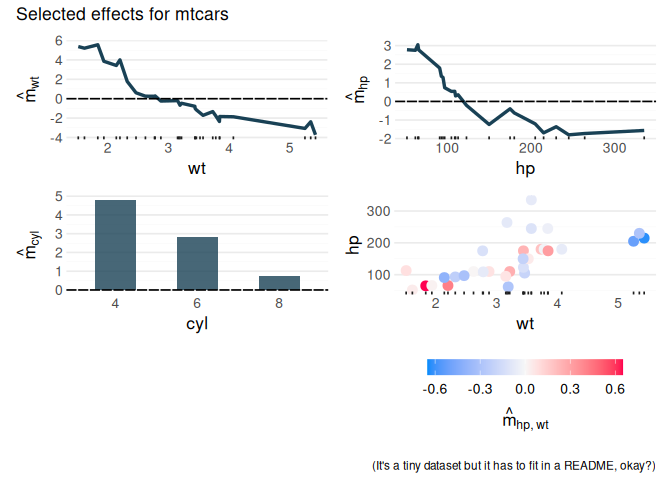
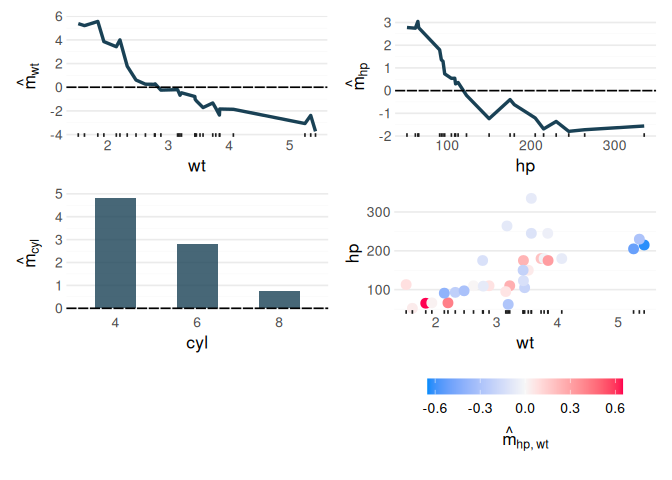
expand README

diff --git a/README.md b/README.md
@@ -12,28 +12,46 @@ coverage](https://codecov.io/gh/PlantedML/randomPlantedForest/graph/badge.svg)](
 badge](https://plantedml.r-universe.dev/badges/randomPlantedForest)](https://plantedml.r-universe.dev/randomPlantedForest)
 <!-- badges: end -->
 
-`randomPlantedForest` implements “Random Planted Forest”, a directly
-interpretable tree ensemble [(arxiv)](https://arxiv.org/abs/2012.14563).
+`randomPlantedForest` implements Random Planted Forest ([Hiabu, Mammen &
+Meyer](https://arxiv.org/abs/2012.14563)), a tree ensemble whose
+predictions you can read off directly, without post-hoc explanation
+methods.
+
+Like a random forest, it averages many tree-based models grown on
+bootstrap samples. Unlike a random forest, each of these models is a sum
+of trees that each split on a fixed set of predictors, and
+`max_interaction` bounds how many predictors that can be. With
+`max_interaction = 1` the forest is an additive model; with `2` it adds
+pairwise interactions, and so on. As a result, the fitted model
+decomposes exactly into an intercept, main effects and interactions up
+to that order:
+
+$$\hat m(x) = \hat m_0 + \sum_k \hat m_k(x_k) + \sum_{k < l} \hat m_{kl}(x_k, x_l) + \dots$$
+
+Each component can be inspected and plotted on its own, and together
+they sum to the prediction.
 
 ## Installation
 
-You can install the development version of `randomPlantedForest` from
-[GitHub](https://github.com/) with
-
-``` r
-# install.packages("remotes")
-remotes::install_github("PlantedML/randomPlantedForest")
-```
-
-or from [r-universe](https://plantedml.r-universe.dev/packages) with
+Install the development version from
+[r-universe](https://plantedml.r-universe.dev/packages) with
 
 ``` r
 install.packages("randomPlantedForest", repos = "https://plantedml.r-universe.dev")
 ```
 
+or from [GitHub](https://github.com/PlantedML/randomPlantedForest) with
+
+``` r
+# install.packages("pak")
+pak::pak("PlantedML/randomPlantedForest")
+```
+
 ## Example
 
-Model fitting uses a familiar interface:
+`rpf()` takes a formula, x/y data or a
+[recipe](https://recipes.tidymodels.org/), and `predict()` returns a
+tibble as in tidymodels:
 
 ``` r
 library(randomPlantedForest)
@@ -41,96 +59,65 @@ library(randomPlantedForest)
 mtcars$cyl <- factor(mtcars$cyl)
 rpfit <- rpf(mpg ~ cyl + wt + hp, data = mtcars, ntrees = 25, max_interaction = 2)
 rpfit
-#> -- Regression Random Planted Forest --
+#> ── Regression Random Planted Forest ───────────────────────────────────────────────────────────────────────────────────────────────────────────────────────────────────────────────────────────────────────────────────────────
+#> Formula: `mpg ~ cyl + wt + hp`
+#> 25 tree families with 30 splits each on 3 predictors, interactions to degree 2.
+#> ℹ Forest is not purified.
 #> 
-#> Formula: mpg ~ cyl + wt + hp 
-#> Fit using 3 predictors and 2-degree interactions.
-#> Forest is _not_ purified!
+#> ── Tree growing 
+#>    split_structure: leaves
+#>          split_try: 10
+#>              t_try: 0.4
+#>     max_candidates: 50
+#>   split_decay_rate: 0.1
+#>      delete_leaves: TRUE
 #> 
-#> Called with parameters:
-#> 
-#>              loss: L2
-#>            ntrees: 25
-#>   max_interaction: 2
-#>            splits: 30
-#>         split_try: 10
-#>             t_try: 0.4
-#>  split_decay_rate: 0.1
-#>    max_candidates: 50
-#>     delete_leaves: TRUE
-#>   split_structure: leaves
-#>             delta: 0.001
-#>           epsilon: 0.1
-#>     deterministic: FALSE
-#>          nthreads: 1
-#>            purify: FALSE
-#>                cv: FALSE
+#> ℹ Fit using 1 thread, also the default for `predict()` and `purify()`.
 
-predict(rpfit, new_data = mtcars) |>
-  cbind(mpg = mtcars$mpg) |>
-  head()
-#>      .pred  mpg
-#> 1 20.56781 21.0
-#> 2 20.57981 21.0
-#> 3 25.36640 22.8
-#> 4 20.86060 21.4
-#> 5 18.25741 18.7
-#> 6 19.01166 18.1
+head(predict(rpfit, new_data = mtcars))
+#> # A tibble: 6 × 1
+#>   .pred
+#>   <dbl>
+#> 1  21.4
+#> 2  21.0
+#> 3  24.4
+#> 4  20.9
+#> 5  17.7
+#> 6  19.1
 ```
 
-Prediction components can be accessed via `predict_components`,
-including the intercept, main effects, and interactions up to a
-specified degree. The returned object also contains the original data as
-`x`, which is required for visualization. The `glex` package can be used
-as well: `glex(rpfit)` yields the same result.
+`predict_components()` returns the decomposition: one column per main
+effect and interaction, plus the intercept.
 
 ``` r
-components <- predict_components(rpfit, new_data = mtcars) 
-
-str(components)
-#> List of 3
-#>  $ m        :Classes 'data.table' and 'data.frame':  32 obs. of  6 variables:
-#>   ..$ cyl   : num [1:32] 3.08 3.08 5.56 3.08 1.87 ...
-#>   ..$ wt    : num [1:32] 0.0384 0.0552 1.736 0.1104 -0.876 ...
-#>   ..$ hp    : num [1:32] 0.346 0.346 1.005 0.346 -0.117 ...
-#>   ..$ cyl:wt: num [1:32] 0.1382 0.1483 0.3898 0.1932 0.0373 ...
-#>   ..$ cyl:hp: num [1:32] -0.0284 -0.0284 -0.4527 -0.0284 0.1046 ...
-#>   ..$ hp:wt : num [1:32] 0.137 0.122 0.267 0.303 0.381 ...
-#>   ..- attr(*, ".internal.selfref")=<pointer: 0x101551630> 
-#>  $ intercept: num 16.9
-#>  $ x        :Classes 'data.table' and 'data.frame':  32 obs. of  3 variables:
-#>   ..$ cyl: Factor w/ 3 levels "4","6","8": 2 2 1 2 3 2 3 1 1 2 ...
-#>   ..$ wt : num [1:32] 2.62 2.88 2.32 3.21 3.44 ...
-#>   ..$ hp : num [1:32] 110 110 93 110 175 105 245 62 95 123 ...
-#>   ..- attr(*, ".internal.selfref")=<pointer: 0x101551630> 
-#>  - attr(*, "class")= chr [1:3] "glex" "rpf_components" "list"
+components <- predict_components(rpfit, new_data = mtcars)
+head(components$m)
+#>          cyl         wt         hp     cyl:wt      cyl:hp        hp:wt
+#>        <num>      <num>      <num>      <num>       <num>        <num>
+#> 1: 2.8275105  0.2569457  0.2970626  0.3448129  0.06873138  0.006002504
+#> 2: 2.8275105 -0.2438784  0.2970626  0.3929089  0.06873138  0.076817727
+#> 3: 4.8022694  1.7754646  1.3572422 -0.4610986 -0.41379471 -0.231709254
+#> 4: 2.8275105 -0.4727413  0.2970626  0.3538112  0.06873138  0.256989969
+#> 5: 0.7661282 -1.0143147 -0.3952336  0.4528133  0.02336632  0.241715900
+#> 6: 2.8275105 -1.1525180  0.5397470 -0.4590129 -0.03247695 -0.199217461
 ```
 
-Various visualization options are available via `glex`, e.g. for main
-and second-order interaction effects:
+The [glex](https://plantedml.com/glex/) package plots these components:
 
 ``` r
-# install glex if not available:
-if (!requireNamespace("glex")) remotes::install_github("PlantedML/glex")
-#> Loading required namespace: glex
 library(glex)
 library(ggplot2)
-library(patchwork) # For plot arrangement
+library(patchwork)
 
-p1 <- autoplot(components, "wt")
-p2 <- autoplot(components, "hp")
-p3 <- autoplot(components, "cyl")
-p4 <- autoplot(components, c("wt", "hp"))
-
-(p1 + p2) / (p3 + p4) +
-  plot_annotation(
-    title = "Selected effects for mtcars",
-    caption = "(It's a tiny dataset but it has to fit in a README, okay?)"
-  )
+(autoplot(components, "wt") + autoplot(components, "hp")) /
+  (autoplot(components, "cyl") + autoplot(components, c("wt", "hp")))
 ```
 
-<img src="man/figures/README-unnamed-chunk-4-1.png" alt="" width="100%" />
+<img src="man/figures/README-effects-1.png" alt="" width="100%" />
 
-See the [Bikesharing
+The [Get
+started](https://plantedml.com/randomPlantedForest/articles/randomPlantedForest.html)
+guide covers classification, recipes, saving models and more on
+interpreting components, and the [Bikesharing
 decomposition](https://plantedml.com/glex/articles/Bikesharing-Decomposition-rpf.html)
-article for more examples.
+article works through a larger example.
